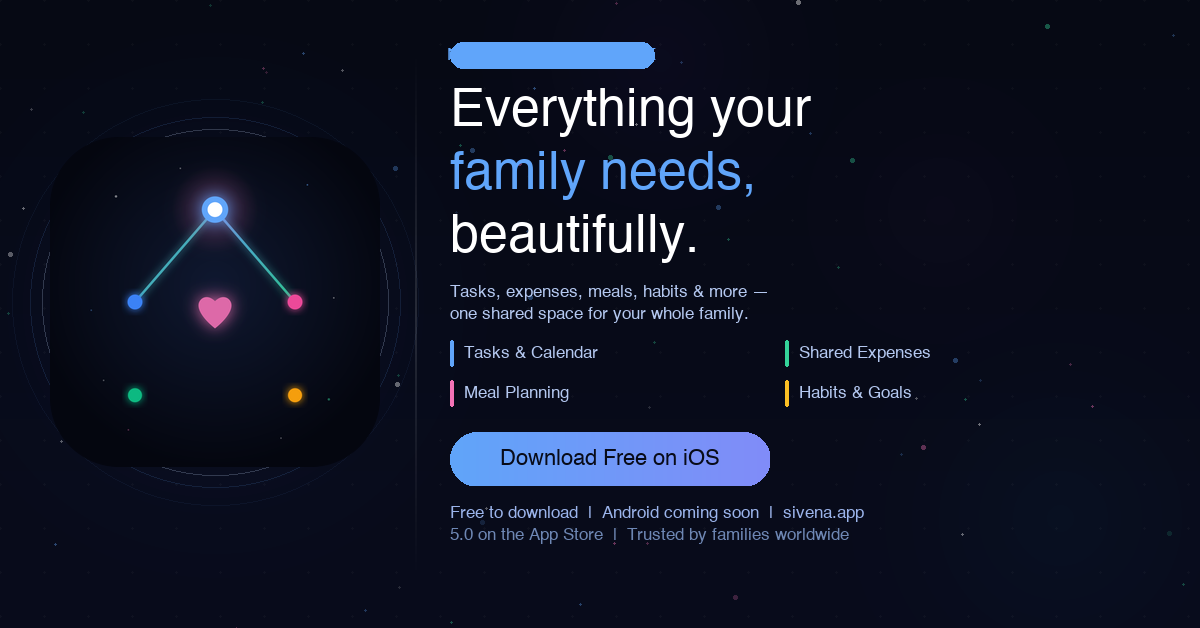
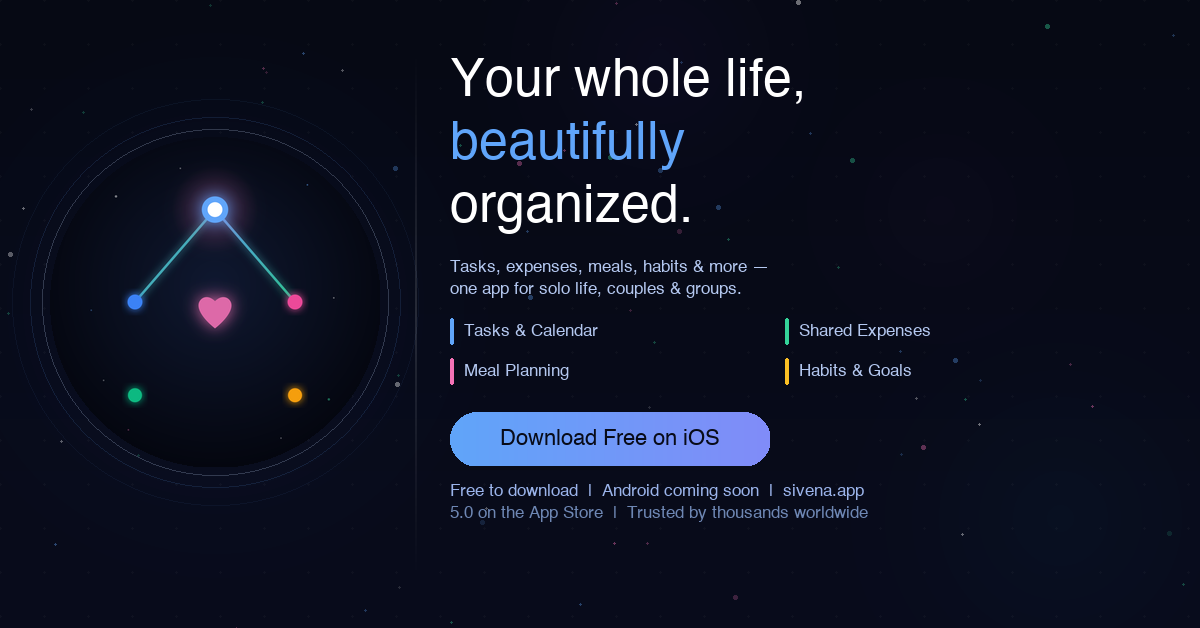
fix: landing page + ad copy — Sivena is for everyone, not family-specific

Changed region(s): [[0.37, 0.0605, 0.74, 0.8774], [0.6475, 0.5143, 0.7708, 0.6354]]

diff --git a/web/landing/index.html b/web/landing/index.html
@@ -4,20 +4,20 @@
 <meta charset="UTF-8">
 <meta name="viewport" content="width=device-width, initial-scale=1.0">
 <title>Sivena — Manage Your Life, Together | Tasks, Meals, Budget & Wellness</title>
-<meta name="description" content="Sivena is the all-in-one life management app for couples, families, and individuals. Plan meals, track budgets, manage tasks, build habits, and coordinate your household — all in one shared space.">
-<meta name="keywords" content="family app, couple app, household management, meal planning app, budget tracker, task manager, habit tracker, wellness app, shared calendar, expense splitting, family organizer, life planner">
+<meta name="description" content="Sivena is the all-in-one life management app for everyone. Plan meals, track budgets, manage tasks, build habits, and stay on top of your life — solo or with your people, all in one place.">
+<meta name="keywords" content="life management app, personal organizer, meal planning app, budget tracker, task manager, habit tracker, wellness app, shared calendar, expense splitting, productivity app, life planner">
 <meta name="author" content="Sivena">
 <meta name="robots" content="index, follow">
 <link rel="canonical" href="https://sivena.app">
 <meta property="og:type" content="website">
 <meta property="og:url" content="https://sivena.app">
 <meta property="og:title" content="Sivena — Manage Your Life, Together">
-<meta property="og:description" content="The all-in-one app for couples, families & individuals. Plan meals, track budgets, manage tasks, build habits — one shared space.">
+<meta property="og:description" content="The all-in-one app for everyone. Plan meals, track budgets, manage tasks, build habits — your whole life, beautifully organized.">
 <meta property="og:image" content="https://sivena.app/api/og">
 <meta property="og:site_name" content="Sivena">
 <meta name="twitter:card" content="summary_large_image">
 <meta name="twitter:title" content="Sivena — Manage Your Life, Together">
-<meta name="twitter:description" content="Plan meals, track budgets, manage tasks, build habits — one shared space for couples, families & individuals.">
+<meta name="twitter:description" content="Plan meals, track budgets, manage tasks, build habits — your whole life, beautifully organized. Free on iOS.">
 <meta name="twitter:image" content="https://sivena.app/api/og">
 <meta name="twitter:site" content="@sivaboraapp">
 <meta name="theme-color" content="#080B18">
@@ -31,7 +31,7 @@
   "@context": "https://schema.org",
   "@type": "SoftwareApplication",
   "name": "Sivena",
-  "description": "All-in-one life management app for couples, families, and individuals.",
+  "description": "All-in-one life management app for everyone — solo, partners, groups, and more.",
   "url": "https://sivena.app",
   "applicationCategory": "LifestyleApplication",
   "operatingSystem": "iOS",
@@ -504,7 +504,7 @@ img{max-width:100%;display:block;}
     <div class="reveal">
       <div class="section-label">✦ Life modes</div>
       <h2 class="section-h">One app, every chapter<br>of <span class="g">your life</span></h2>
-      <p class="section-p">Whether you're flying solo, building with a partner, raising a family, or parenting — Sivena adapts to your season of life.</p>
+      <p class="section-p">Whether you're flying solo, building with a partner, coordinating with others, or navigating parenthood — Sivena adapts to your life, exactly as it is.</p>
     </div>
     <div class="modes-layout">
       <div class="reveal reveal-d1">
@@ -729,7 +729,7 @@ img{max-width:100%;display:block;}
   <div class="container">
     <div class="reveal" style="text-align:center;">
       <div class="section-label">✦ What people say</div>
-      <h2 class="section-h">Real households,<br><em>real</em> results</h2>
+      <h2 class="section-h">Real people,<br><em>real</em> results</h2>
     </div>
     <div class="testi-grid">
       <div class="testi-card reveal">
@@ -761,7 +761,7 @@ img{max-width:100%;display:block;}
           <div class="testi-avatar" style="background:linear-gradient(135deg,#60A5FA,#A78BFA);">SO</div>
           <div>
             <div class="testi-name">Sara O.</div>
-            <div class="testi-role">Using Solo & Family modes</div>
+            <div class="testi-role">Solo user, productivity focus</div>
           </div>
         </div>
       </div>
@@ -814,8 +814,8 @@ img{max-width:100%;display:block;}
   <div class="cta-glow"></div>
   <div class="container reveal">
     <div class="section-label" style="display:inline-flex;margin-bottom:24px;">✦ Download now</div>
-    <h2>Your home deserves<br><span class="g">a better system</span></h2>
-    <p>Join thousands of households already managing life together with Sivena. Free to start, powerful when you grow.</p>
+    <h2>Your life deserves<br><span class="g">a better system</span></h2>
+    <p>Join thousands of people already managing life with Sivena. Free to start, powerful when you grow.</p>
     <div class="cta-btns">
       <a href="https://apps.apple.com/app/id6796857233" target="_blank" rel="noopener" class="cta-store-btn">
         <svg width="32" height="32" viewBox="0 0 814 1000" fill="#080B18" xmlns="http://www.w3.org/2000/svg"><path d="M788.1 340.9c-5.8 4.5-108.2 62.2-108.2 190.5 0 148.4 130.3 200.9 134.2 202.2-.6 3.2-20.7 71.9-68.7 141.9-42.8 61.6-87.5 123.1-155.5 123.1s-85.5-39.5-164-39.5c-76 0-103.7 40.8-165.9 40.8s-105-37.5-155.5-127.4C46 790.7 0 663 0 541.8c0-207.7 135.4-317.5 269-317.5 70.7 0 129.5 46.4 173.7 46.4 42.8 0 109.7-49.2 188.4-49.2l.7.2zm-216-190.5c31.2-36.9 53.8-88.1 53.8-139.3 0-7.1-.6-14.3-1.9-20.1-50.6 1.9-110.7 33.7-147 75.8-28.5 32.4-55.1 83.6-55.1 135.5 0 7.8 1.3 15.6 1.9 18.1 3.2.6 8.4 1.3 13.6 1.3 45.4 0 102.5-30.4 134.7-71.3z"/></svg>
@@ -879,7 +879,7 @@ img{max-width:100%;display:block;}
     </div>
     <div class="footer-bottom">
       <div class="footer-copy">© 2026 Sivena. All rights reserved.</div>
-      <div class="footer-copy">Made with ♥ for households everywhere</div>
+      <div class="footer-copy">Made with ♥ for everyone, everywhere</div>
     </div>
   </div>
 </footer>

diff --git a/misc/social/make_social.py b/misc/social/make_social.py
@@ -69,6 +69,15 @@ def paste_icon(canvas, icon_rgba, cx, cy, size):
     canvas.paste(ico, (cx - size//2, cy - size//2), ico)
 
 
+def paste_icon_circle(canvas, icon_rgba, cx, cy, size):
+    """Paste icon clipped to a circle, centred at (cx,cy)."""
+    ico = icon_rgba.resize((size, size), Image.LANCZOS)
+    mask = Image.new('L', (size, size), 0)
+    ImageDraw.Draw(mask).ellipse([0, 0, size, size], fill=255)
+    ico.putalpha(mask)
+    canvas.paste(ico, (cx - size//2, cy - size//2), ico)
+
+
 def hgrad_rect(img, x0, y0, x1, y1, col_l, col_r, radius=27):
     """Paste a horizontal-gradient rounded rectangle onto img (RGBA)."""
     w, h = x1-x0, y1-y0
@@ -210,7 +219,7 @@ def make_ad(icon_rgba, fonts):
         rd.ellipse([ICX-r, ICY-r, ICX+r, ICY+r], outline=(*col, a), width=w)
     img = Image.alpha_composite(img, ring_ov)
 
-    paste_icon(img, icon_rgba, ICX, ICY, ICS)
+    paste_icon_circle(img, icon_rgba, ICX, ICY, ICS)
 
     # ── Soft vertical separator (faded, not a hard line) ──────
     sep_ov = Image.new('RGBA', (W,H), (0,0,0,0))
@@ -225,23 +234,15 @@ def make_ad(icon_rgba, fonts):
     # ── Right panel ───────────────────────────────────────────
     rx = 450
 
-    # "NOW ON APP STORE" badge
-    BW = 204
-    d.rounded_rectangle([rx, 42, rx+BW, 68], radius=13, fill=(96,165,250,18))
-    d.rounded_rectangle([rx, 42, rx+BW, 68], radius=13,
-                         outline=(96,165,250,85), width=1)
-    d.text((rx+BW//2, 55), 'NOW ON THE APP STORE',
-           font=fonts['xs'], fill=BLUE, anchor='mm')
-
     # Headline — 3 lines with alternating white/blue
-    d.text((rx,  85), 'Everything your',  font=fonts['big'], fill=WHITE)
-    d.text((rx, 148), 'family needs,',    font=fonts['big'], fill=BLUE)
-    d.text((rx, 211), 'beautifully.',     font=fonts['big'], fill=WHITE)
+    d.text((rx,  55), 'Your whole life,',  font=fonts['big'], fill=WHITE)
+    d.text((rx, 118), 'beautifully',       font=fonts['big'], fill=BLUE)
+    d.text((rx, 181), 'organized.',        font=fonts['big'], fill=WHITE)
 
     # Tagline
-    d.text((rx, 283), 'Tasks, expenses, meals, habits & more —',
+    d.text((rx, 258), 'Tasks, expenses, meals, habits & more —',
            font=fonts['xs'], fill=TEXT2)
-    d.text((rx, 305), 'one shared space for your whole family.',
+    d.text((rx, 280), 'one app for solo life, couples & groups.',
            font=fonts['xs'], fill=TEXT2)
 
     # Feature 2x2 grid — colored accent bar + label (no emojis)
@@ -255,14 +256,14 @@ def make_ad(icon_rgba, fonts):
     for i, (label, col) in enumerate(feats):
         row, ci = divmod(i, 2)
         fx = rx + ci * col_gap
-        fy = 340 + row * 40
+        fy = 318 + row * 40
         # Colored left bar
         d.rounded_rectangle([fx, fy, fx+3, fy+26], radius=2, fill=col)
         # Label
         d.text((fx+14, fy+13), label, font=fonts['xs'], fill=TEXT2, anchor='lm')
 
     # Gradient CTA button: blue → indigo
-    btn_x, btn_y, btn_w, btn_h = rx, 432, 320, 54
+    btn_x, btn_y, btn_w, btn_h = rx, 412, 320, 54
     hgrad_rect(img, btn_x, btn_y, btn_x+btn_w, btn_y+btn_h,
                BLUE, INDIGO, radius=btn_h//2)
     d = ImageDraw.Draw(img)
@@ -271,11 +272,11 @@ def make_ad(icon_rgba, fonts):
            font=fonts['sm'], fill=(8,11,24), anchor='mm')
 
     # Footer
-    d.text((rx, 504),
+    d.text((rx, 482),
            'Free to download  |  Android coming soon  |  sivena.app',
            font=fonts['xs'], fill=(155,180,235))
-    d.text((rx, 526),
-           '5.0 on the App Store  |  Trusted by families worldwide',
+    d.text((rx, 504),
+           '5.0 on the App Store  |  Trusted by thousands worldwide',
            font=fonts['xs'], fill=TEXT3)
 
     img = img.convert('RGB')
